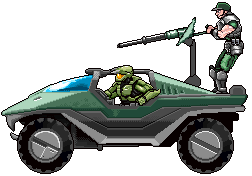
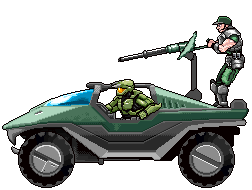
Fixed warthog pictures to all be the same dimensions and the same center.  Row collapsing is in, but not without the million bugs that go with it.  Deletions are deleting things that it shouldn't be.

diff --git a/scripts/objects.js b/scripts/objects.js
@@ -39,6 +39,7 @@ TETRIS.objects = (function() {
             isLeft = true,
             isRight = true,
             isTop = true,
+            isDeleted = false,
 
             pieceImage = null,
             location = { x : 0, y : 0},
@@ -63,6 +64,8 @@ TETRIS.objects = (function() {
                 brothers[i].removeBrother(this);
                 brothers[i].setPieceKnowledge();
             }
+
+            isDeleted = true;
         };
 
         that.draw = function(x,y) {
@@ -224,6 +227,10 @@ TETRIS.objects = (function() {
             }
         };
 
+        that.isDeleted = function() {
+            return isDeleted;
+        };
+
         that.openBelow = function() {
             return (TETRIS.grid.isEmpty(location.x, location.y + 1));
         };
@@ -301,25 +308,72 @@ TETRIS.objects = (function() {
             };
 
         that.checkForFullRows = function() {
-            var rowNum = 21,
-                colNum = 0,
-                isFull = false,
-                listOfFullRows = {};
+            var y = 21,
+                x = 0,
+                isFull = true,
+                allEmpty = false,
+                rowDeleted = false,
+                listOfRowIndex = [];
 
-            for(rowNum = 21; rowNum >= 0; rowNum--) {
-                isFull = false;
+            for(y = 21; y >= 0; y--) {
+                isFull = true;
+                allEmpty = false;
 
-                for(colNum = 0; colNum <= 10; colNum++) {
-                    if(grid.isEmpty(rowNum, colNum)) {          // This row contains an empty cell;
-                        isFull = false;
-                        break;
+                for(x = 0; x < 10; x++) {
+                    if(TETRIS.grid.isEmpty(x, y)) {             // This row contains an empty cell, we don't care about it anymore
+                        isFull = false;                         // If this row has an empty spot, it is not full
+                    }
+                    else {
+                        allEmpty = false;                       // If this row has a single piece in it, it is not all empty
                     }
                 }
+
+                if(allEmpty) {                                  // If all columns are empty in the row then there will be nothing above, just stop there
+                    break;
+                }
+
+                if(isFull) {                                    // If the row if full, I need to work on it.
+                    listOfRowIndex.push(y);                     // I want to push the index of the row to change
+                }
+            }
+            if(listOfRowIndex.length > 0) {
+                TETRIS.grid.deleteRows(listOfRowIndex);
             }
         };
 
         that.clearGrid = function() {
             that.init();
+        };
+
+        that.deleteRows = function(listOfFullIndex) {
+            var lengthOfList = listOfFullIndex.length,
+                index = 0,
+                x = 0,
+                y = 0,
+                row = null,
+                currentShape = null,
+                pieces = null,
+                piece = null,
+                pIndex = 0;
+
+            console.log(listOfFullIndex.length);
+
+            for(index = 0; index < lengthOfList; ++index) {         // For each index in the list, we need the y out of it
+                y = listOfFullIndex[index];                         // Get the y coord of the row we are working on
+
+                for(x = 0; x < 10; ++x) {
+
+                    currentShape = grid[x][y].getFatherShape();     // Get the shape this piece belongs to
+                    grid[x][y].deletePiece();                       // Delete the piece (marks it as deleted and removes it from all of its brothers lists of brother pieces
+                    pieces = currentShape.getPieces();              // Get all of the pieces of the shape
+
+                    for(pIndex = 0; pIndex < 4; ++pIndex) {
+                        pieces[pIndex].setPieceKnowledge();         // Reset the piece knowledge of the remaining pieces
+                    }
+                }
+            }
+
+            TETRIS.grid.makeGridFall();                              // Now we need to move all pieces down to fill in the empty space
         };
 
         that.draw = function() {
@@ -330,7 +384,7 @@ TETRIS.objects = (function() {
 
             for(i = 0; i < columns; ++i) {
                 for(j = 2; j < rows; ++j) {
-                    if(grid[i][j] !== null) {
+                    if(grid[i][j] !== null && !(grid[i][j].isDeleted())) {
                         grid[i][j].draw(i, j);
                     }
                 }
@@ -353,17 +407,40 @@ TETRIS.objects = (function() {
 
         that.isEmpty = function(x, y) {
             if(withinBounds(x, y)) {
-                if(grid[x][y] === null) {
+                if(grid[x][y] === null || grid[x][y].isDeleted()) {
                     return true;
                 }
             }
             return false;
         };
 
+        that.makeGridFall = function() {
+            var y = 21,
+                x = 0,
+                i = 0,
+                currentShape = null,
+                pieces = null;
+
+            for(y = 21; y >= 0; --y) {
+                for(x = 0; x < 10; ++x) {
+                    if(!TETRIS.grid.isEmpty(x,y)) {                         // If there is a piece in this cell, try to move it down
+                        currentShape = grid[x][y].getFatherShape();
+
+                        pieces = currentShape.getPieces();
+                        for(i = 0; i < 4; ++i) {
+                            while(TETRIS.grid.movePieceDown(pieces[i])) {}   // Move piece down until it can't go any further
+                        }
+
+                    }
+                }
+            }
+        };
+
         that.movePieceDown = function(piece) {
             var allClear = true,
                 brothers = piece.getBrothers(),
                 currentPiece = null,
+                pieceMoved = false,
                 length = 0,
                 i = 0,
                 x = 0,
@@ -387,9 +464,11 @@ TETRIS.objects = (function() {
                         grid[x][y] = null;
                         grid[x][y + 1] = currentPiece;
                         currentPiece.setYLocation(y + 1);
+                        pieceMoved = true;
                     }
                 }
             }
+            return pieceMoved;
         };
 
         that.moveShapeDown = function(shape) {

diff --git a/scripts/game.js b/scripts/game.js
@@ -202,6 +202,8 @@ TETRIS.screens['game'] = (function() {
         else{
             if(ticTime/1000 > .75) {
                 if(!TETRIS.currentShape.fall()){            // Goes in when shape is locked in place
+                    TETRIS.grid.checkForFullRows();
+
                     TETRIS.currentShape = TETRIS.nextShape;
 
                     if (TETRIS.currentShape.canSpawn()) {
